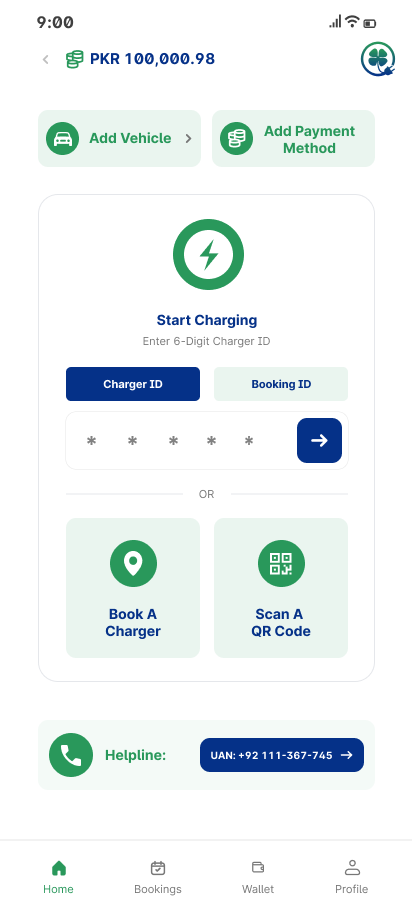
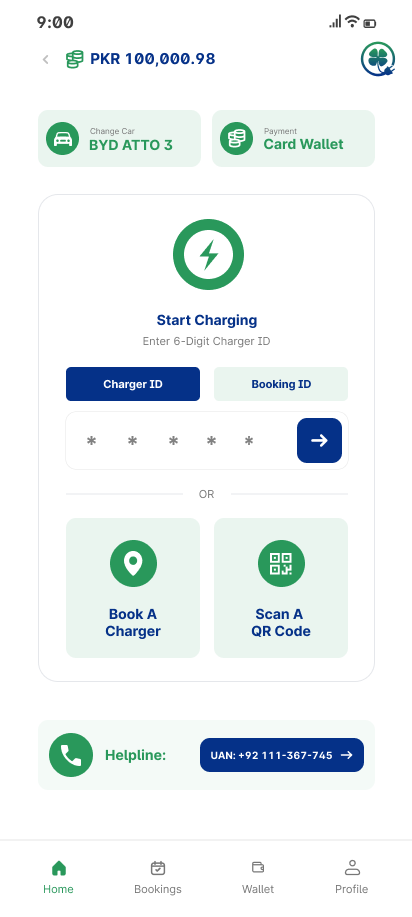
Refresh customer app screens from EV design flow
Replace core auth, map, booking, charge, invoice, vehicles, and payment frames with the selected Downloads flow set, and add a compact end-to-end montage.

diff --git a/README.md b/README.md
@@ -12,6 +12,13 @@ The phone screens are from the CloverVolt design file. The console screens are f
 
 The phone app is the driver side of the network: sign in, find a station, book a connector, start a charge, watch it, and pay. The same app also carries car wash, oil, tyres, and the wallet.
 
+### End-to-end charging flow
+
+<p>
+  <img src="screens/app/montage-app-flow.png" alt="CloverVolt app charging flow montage" width="900" />
+</p>
+
+
 <p>
   <img src="screens/app/splash.png" alt="CloverVolt splash" width="170" />
   <img src="screens/app/onboarding.png" alt="Onboarding" width="170" />
